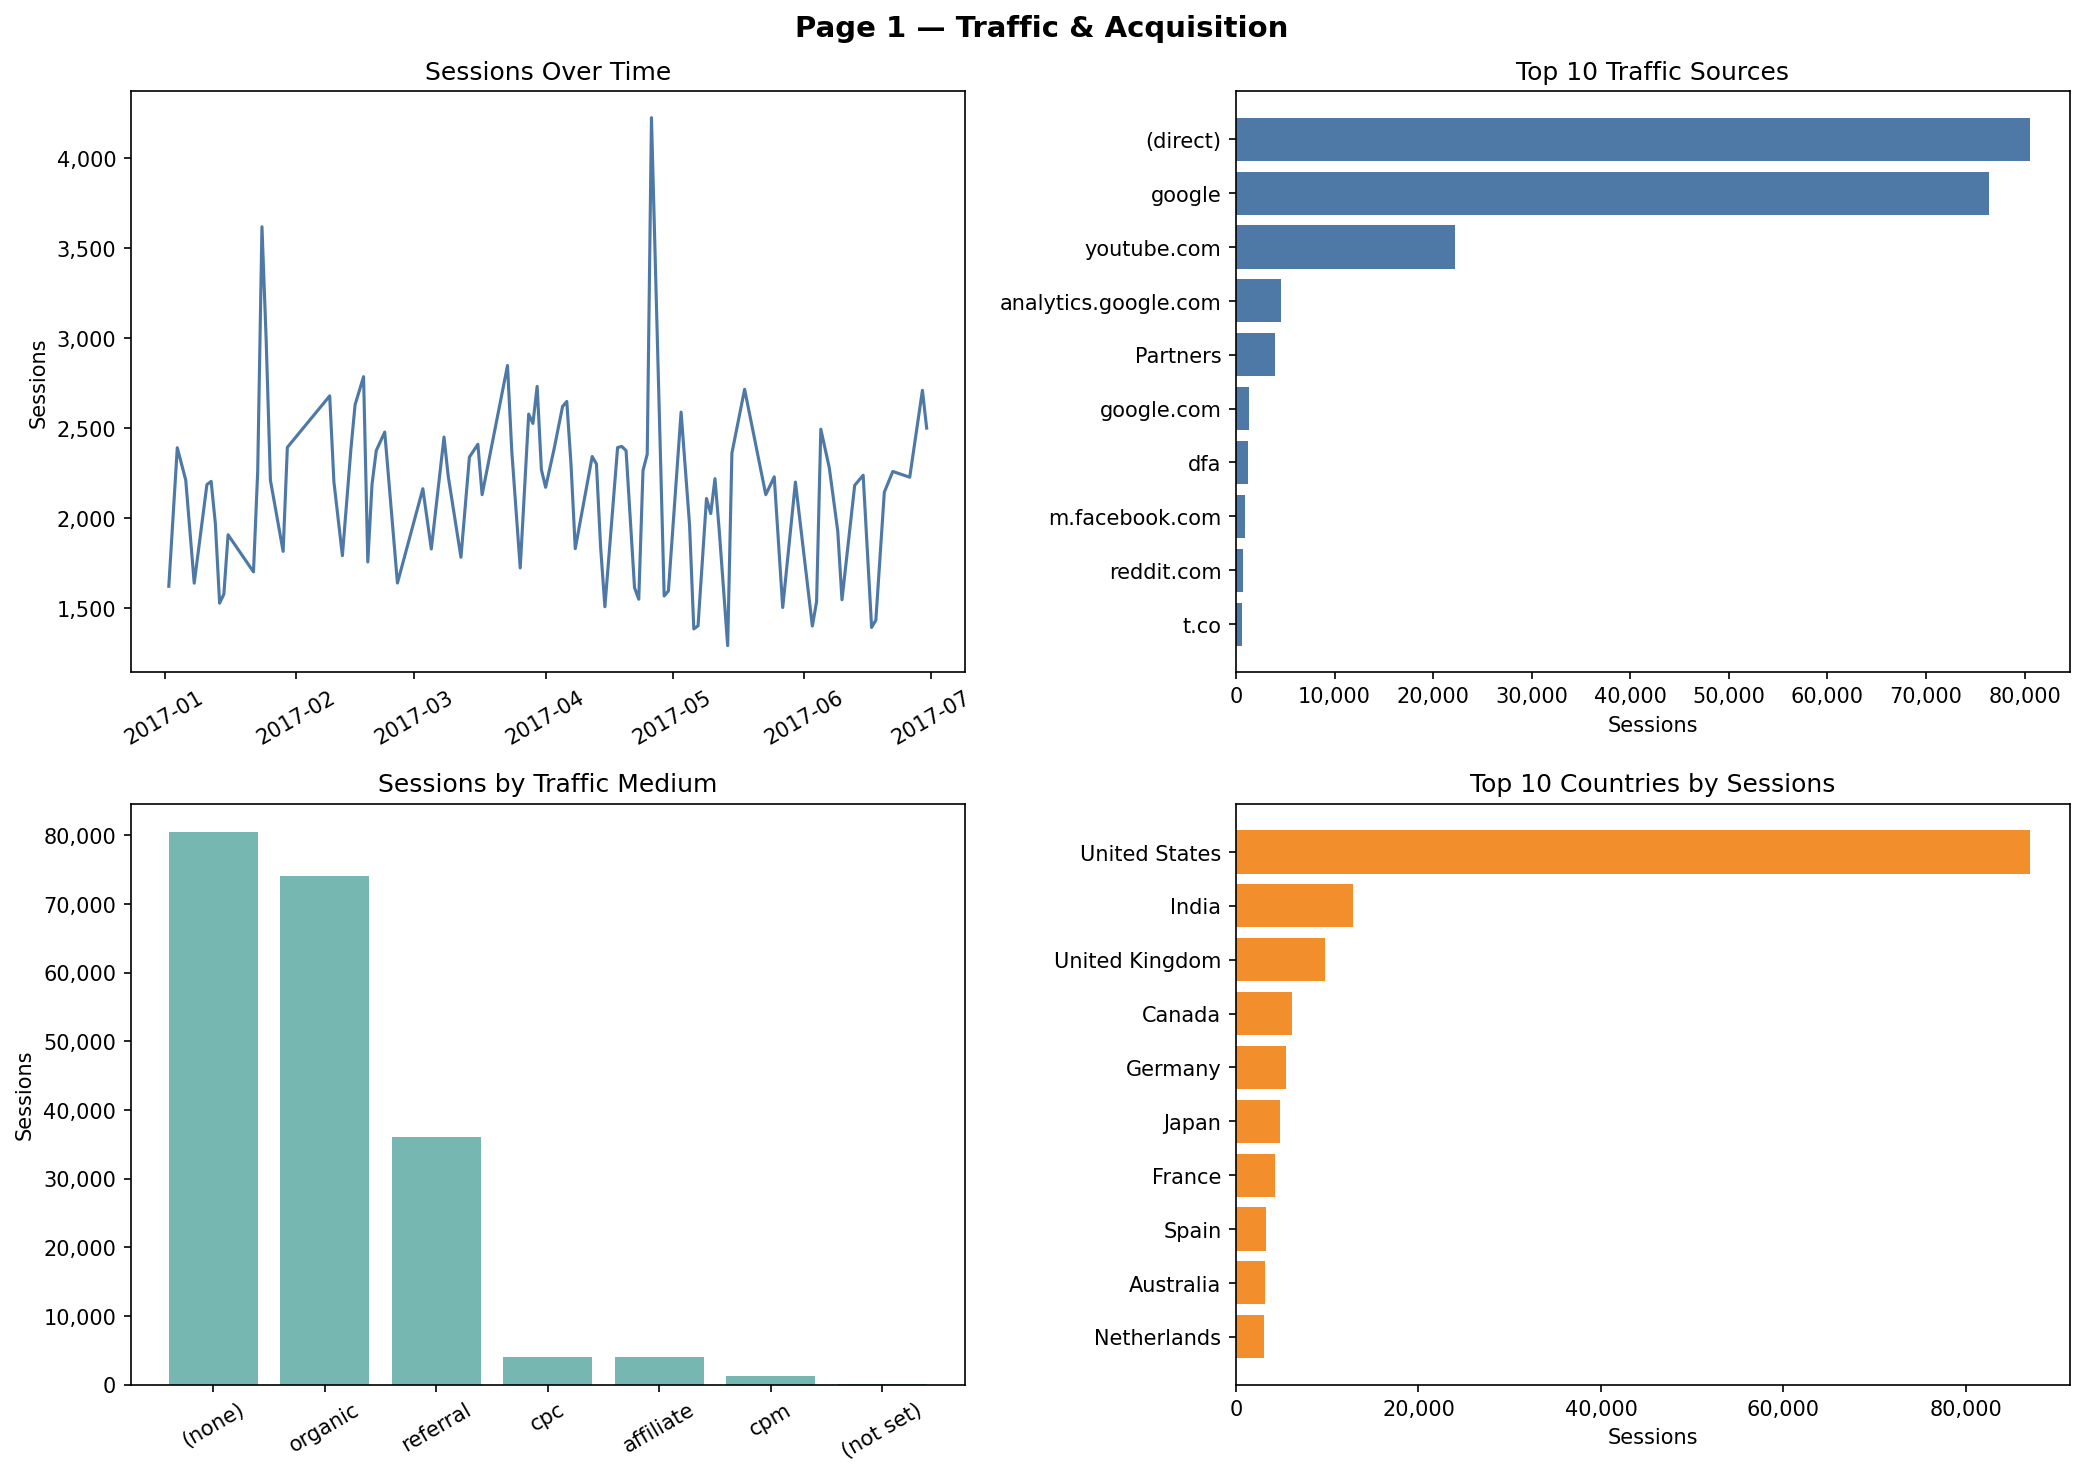
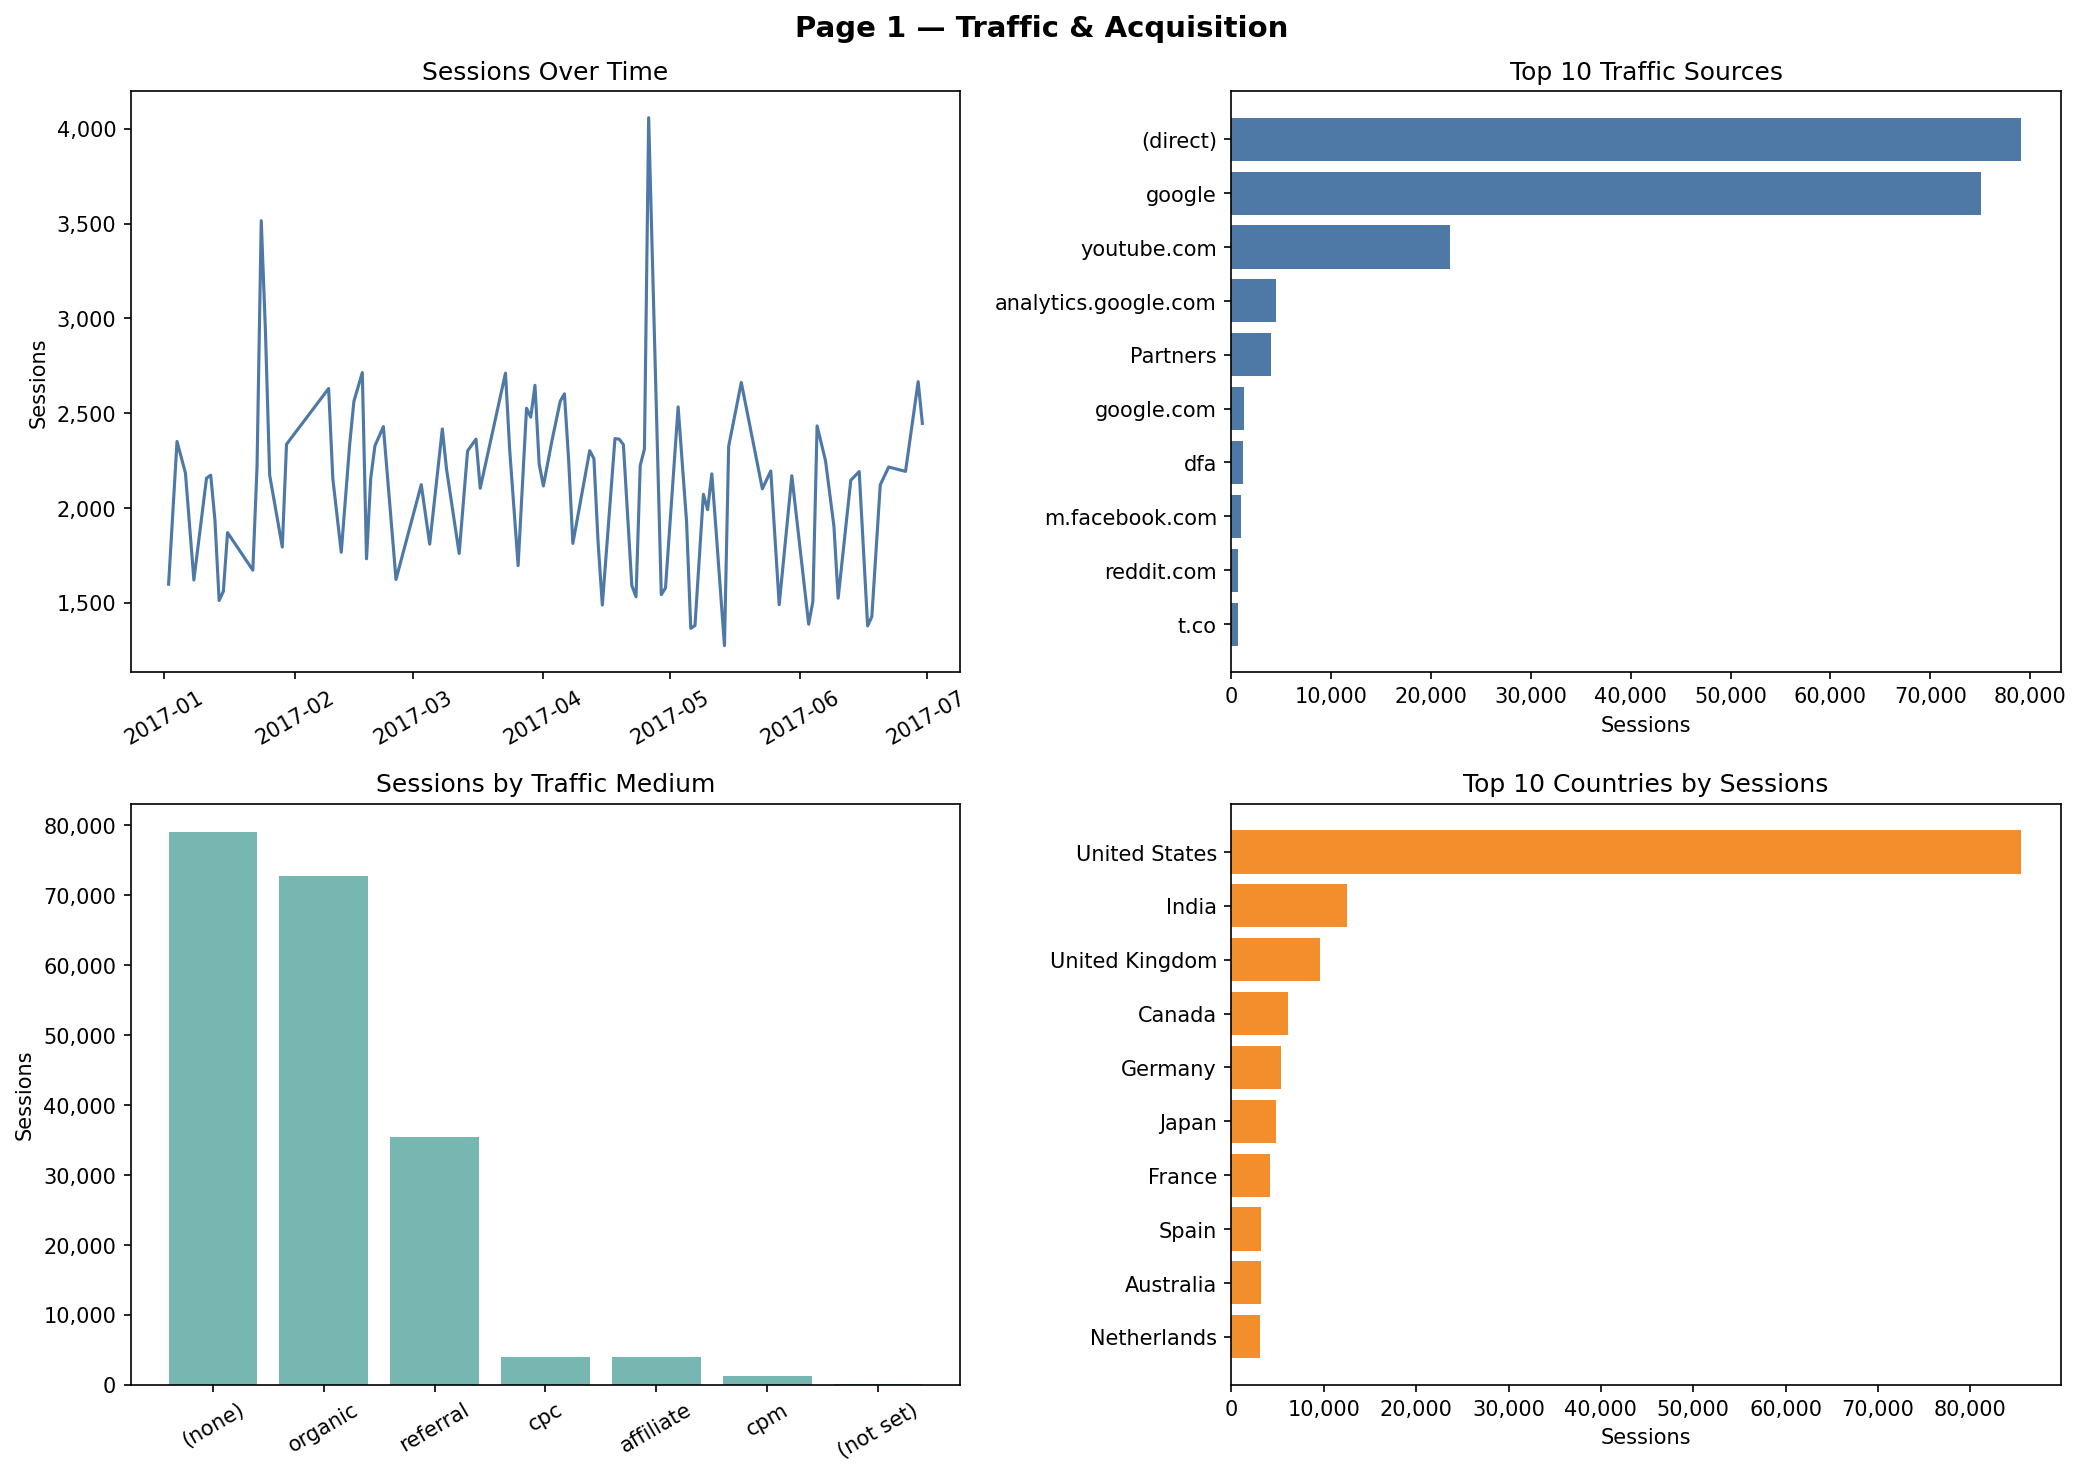
Regenerate EDA plots from cleaned data, add data_cleaning.py

diff --git a/eda_plots.py b/eda_plots.py
@@ -1,0 +1,138 @@
+import pandas as pd
+import matplotlib.pyplot as plt
+import matplotlib.ticker as mticker
+import warnings
+warnings.filterwarnings("ignore")
+
+df = pd.read_csv("web_sessions_cleaned.csv", parse_dates=["session_date"])
+
+def save_fig(fig, filename):
+    fig.tight_layout()
+    fig.savefig(filename, dpi=150, bbox_inches="tight")
+    plt.close(fig)
+    print(f"Saved: {filename}")
+
+# ── Page 1: Traffic & Acquisition ──────────────────────────────────────────
+fig, axes = plt.subplots(2, 2, figsize=(14, 10))
+fig.suptitle("Page 1 — Traffic & Acquisition", fontsize=14, fontweight="bold")
+
+# 1a. Sessions over time
+ax = axes[0, 0]
+sessions_by_date = df.groupby("session_date").size()
+ax.plot(sessions_by_date.index, sessions_by_date.values, color="#4e79a7", linewidth=1.5)
+ax.set_title("Sessions Over Time")
+ax.set_ylabel("Sessions")
+ax.tick_params(axis="x", rotation=30)
+ax.yaxis.set_major_formatter(mticker.FuncFormatter(lambda x, _: f"{int(x):,}"))
+
+# 1b. Top 10 traffic sources
+ax = axes[0, 1]
+top_sources = df["traffic_source"].value_counts().head(10)
+ax.barh(top_sources.index[::-1], top_sources.values[::-1], color="#4e79a7")
+ax.set_title("Top 10 Traffic Sources")
+ax.set_xlabel("Sessions")
+ax.xaxis.set_major_formatter(mticker.FuncFormatter(lambda x, _: f"{int(x):,}"))
+
+# 1c. Traffic medium breakdown
+ax = axes[1, 0]
+medium_counts = df["traffic_medium"].value_counts().head(8)
+ax.bar(medium_counts.index, medium_counts.values, color="#76b7b2")
+ax.set_title("Sessions by Traffic Medium")
+ax.set_ylabel("Sessions")
+ax.tick_params(axis="x", rotation=30)
+ax.yaxis.set_major_formatter(mticker.FuncFormatter(lambda x, _: f"{int(x):,}"))
+
+# 1d. Top 10 countries
+ax = axes[1, 1]
+top_countries = df["country"].value_counts().head(10)
+ax.barh(top_countries.index[::-1], top_countries.values[::-1], color="#f28e2b")
+ax.set_title("Top 10 Countries by Sessions")
+ax.set_xlabel("Sessions")
+ax.xaxis.set_major_formatter(mticker.FuncFormatter(lambda x, _: f"{int(x):,}"))
+
+save_fig(fig, "page1_traffic_acquisition.png")
+
+# ── Page 2: Conversion Analysis ────────────────────────────────────────────
+fig, axes = plt.subplots(2, 2, figsize=(14, 10))
+fig.suptitle("Page 2 — Conversion Analysis", fontsize=14, fontweight="bold")
+
+# 2a. Overall conversion rate
+ax = axes[0, 0]
+sizes = df["is_converted"].value_counts().sort_index().values
+ax.pie(sizes, labels=["Not Converted", "Converted"], colors=["#d9534f", "#5cb85c"],
+       autopct="%1.1f%%", startangle=90)
+ax.set_title("Overall Conversion Rate")
+
+# 2b. Conversion rate by device
+ax = axes[0, 1]
+conv_device = df.groupby("device_category")["is_converted"].mean() * 100
+bars = ax.bar(conv_device.index, conv_device.values, color=["#4e79a7", "#f28e2b", "#76b7b2"])
+ax.set_title("Conversion Rate by Device")
+ax.set_ylabel("Conversion Rate (%)")
+for bar in bars:
+    ax.text(bar.get_x() + bar.get_width() / 2, bar.get_height() + 0.02,
+            f"{bar.get_height():.2f}%", ha="center", fontsize=10)
+
+# 2c. Conversion rate by top 8 traffic sources
+ax = axes[1, 0]
+top8_sources = df["traffic_source"].value_counts().head(8).index
+conv_source = (df[df["traffic_source"].isin(top8_sources)]
+               .groupby("traffic_source")["is_converted"].mean()
+               .mul(100)
+               .sort_values(ascending=True))
+ax.barh(conv_source.index, conv_source.values, color="#59a14f")
+ax.set_title("Conversion Rate by Traffic Source (Top 8)")
+ax.set_xlabel("Conversion Rate (%)")
+
+# 2d. Conversion rate over time
+ax = axes[1, 1]
+conv_by_date = df.groupby("session_date")["is_converted"].mean() * 100
+ax.plot(conv_by_date.index, conv_by_date.values, color="#5cb85c", linewidth=1.5)
+ax.set_title("Conversion Rate Over Time")
+ax.set_ylabel("Conversion Rate (%)")
+ax.tick_params(axis="x", rotation=30)
+
+save_fig(fig, "page2_conversion.png")
+
+# ── Page 3: Device & User Behavior ─────────────────────────────────────────
+fig, axes = plt.subplots(2, 2, figsize=(14, 10))
+fig.suptitle("Page 3 — Device & User Behavior", fontsize=14, fontweight="bold")
+
+# 3a. Sessions by device
+ax = axes[0, 0]
+device_counts = df["device_category"].value_counts()
+ax.pie(device_counts.values, labels=device_counts.index,
+       colors=["#4e79a7", "#f28e2b", "#76b7b2"], autopct="%1.1f%%", startangle=90)
+ax.set_title("Sessions by Device Category")
+
+# 3b. Avg pageviews by device
+ax = axes[0, 1]
+avg_pv = df.groupby("device_category")["pageviews"].mean().sort_values(ascending=False)
+bars = ax.bar(avg_pv.index, avg_pv.values, color=["#4e79a7", "#f28e2b", "#76b7b2"])
+ax.set_title("Avg Pageviews per Session by Device")
+ax.set_ylabel("Avg Pageviews")
+for bar in bars:
+    ax.text(bar.get_x() + bar.get_width() / 2, bar.get_height() + 0.05,
+            f"{bar.get_height():.2f}", ha="center", fontsize=10)
+
+# 3c. Pageviews distribution (capped at 20)
+ax = axes[1, 0]
+pv_capped = df["pageviews"].clip(upper=20)
+ax.hist(pv_capped, bins=20, color="#4e79a7", edgecolor="white")
+ax.set_title("Pageviews Distribution (capped at 20)")
+ax.set_xlabel("Pageviews")
+ax.set_ylabel("Sessions")
+ax.yaxis.set_major_formatter(mticker.FuncFormatter(lambda x, _: f"{int(x):,}"))
+
+# 3d. Device mix over time (area chart)
+ax = axes[1, 1]
+device_time = (df.groupby(["session_date", "device_category"])
+               .size().unstack(fill_value=0))
+device_time_pct = device_time.div(device_time.sum(axis=1), axis=0) * 100
+device_time_pct.plot.area(ax=ax, color=["#4e79a7", "#f28e2b", "#76b7b2"], alpha=0.8, legend=True)
+ax.set_title("Device Mix Over Time (%)")
+ax.set_ylabel("%")
+ax.tick_params(axis="x", rotation=30)
+ax.legend(loc="upper right", fontsize=8)
+
+save_fig(fig, "page3_device_behavior.png")

diff --git a/data_cleaning.py b/data_cleaning.py
@@ -1,0 +1,81 @@
+import pandas as pd
+
+df = pd.read_csv("bq-results-20260419-043458-1776573372834.csv", parse_dates=["session_date"])
+print(f"Raw data: {df.shape[0]:,} rows, {df.shape[1]} cols")
+
+# ── Step 1: Inspect missing values ─────────────────────────────────────────
+# Đầu tiên mình kiểm tra xem mỗi cột có bao nhiêu giá trị bị thiếu (NaN)
+missing = df.isnull().sum()
+missing_pct = (missing / len(df) * 100).round(2)
+
+missing_report = pd.DataFrame({
+    "missing_count": missing,
+    "missing_percent": missing_pct
+})
+
+# Chỉ in ra những cột thực sự có dữ liệu bị thiếu thôi
+missing_report = missing_report[missing_report["missing_count"] > 0]
+
+if missing_report.empty:
+    print("Không có cột nào bị missing. Dữ liệu sạch ở bước này!")
+else:
+    print("Các cột bị missing:")
+    print(missing_report)
+
+
+# ── Step 2: Remove duplicates ───────────────────────────────────────────────
+# Mỗi session phải có visit_id duy nhất, nên mình kiểm tra xem có bị trùng không
+before = len(df)
+df = df.drop_duplicates(subset=["visit_id"])
+after = len(df)
+
+print(f"\nStep 2 - Remove duplicates:")
+print(f"  Trước: {before:,} dòng")
+print(f"  Sau:   {after:,} dòng")
+print(f"  Đã xóa: {before - after:,} dòng trùng")
+
+
+# ── Step 3: Handle outliers ─────────────────────────────────────────────────
+# Kiểm tra các giá trị bất thường ở pageviews và transaction_revenue
+print("\nStep 3 - Outlier check:")
+print(f"  pageviews = 0: {(df['pageviews'] == 0).sum():,} dòng")
+print(f"  pageviews > 200: {(df['pageviews'] > 200).sum():,} dòng (có thể là bot)")
+print(f"  transaction_revenue < 0: {(df['transaction_revenue'] < 0).sum():,} dòng")
+print(f"\n  Thống kê pageviews:\n{df['pageviews'].describe().round(2)}")
+
+# Xóa những session có pageviews = 0 vì không có ý nghĩa phân tích
+before = len(df)
+df = df[df["pageviews"] > 0]
+print(f"\n  Đã xóa {before - len(df):,} dòng có pageviews = 0")
+
+# Xóa những session nghi là bot (pageviews > 200)
+before = len(df)
+df = df[df["pageviews"] <= 200]
+print(f"  Đã xóa {before - len(df):,} dòng có pageviews > 200 (bot/spam)")
+
+
+# ── Step 4: Validate is_converted consistency ───────────────────────────────
+# is_converted phải nhất quán với transactions:
+#   - is_converted = 1 thì transactions phải > 0
+#   - is_converted = 0 thì transactions phải = 0
+print("\nStep 4 - Validate is_converted:")
+
+case1 = df[(df["is_converted"] == 1) & (df["transactions"] == 0)]
+case2 = df[(df["is_converted"] == 0) & (df["transactions"] > 0)]
+
+print(f"  is_converted=1 nhưng transactions=0: {len(case1):,} dòng")
+print(f"  is_converted=0 nhưng transactions>0: {len(case2):,} dòng")
+
+# Sửa lại is_converted dựa trên transactions cho chắc
+df["is_converted"] = (df["transactions"] > 0).astype(int)
+print("  Đã đồng bộ lại is_converted theo transactions.")
+
+
+# ── Step 5: Export cleaned data ─────────────────────────────────────────────
+# Lưu ra file mới để eda_plots.py dùng, không ghi đè file gốc
+output_file = "web_sessions_cleaned.csv"
+df.to_csv(output_file, index=False)
+
+print(f"\nStep 5 - Export:")
+print(f"  Đã lưu file sạch: {output_file}")
+print(f"  Tổng dòng sau khi clean: {len(df):,}")
